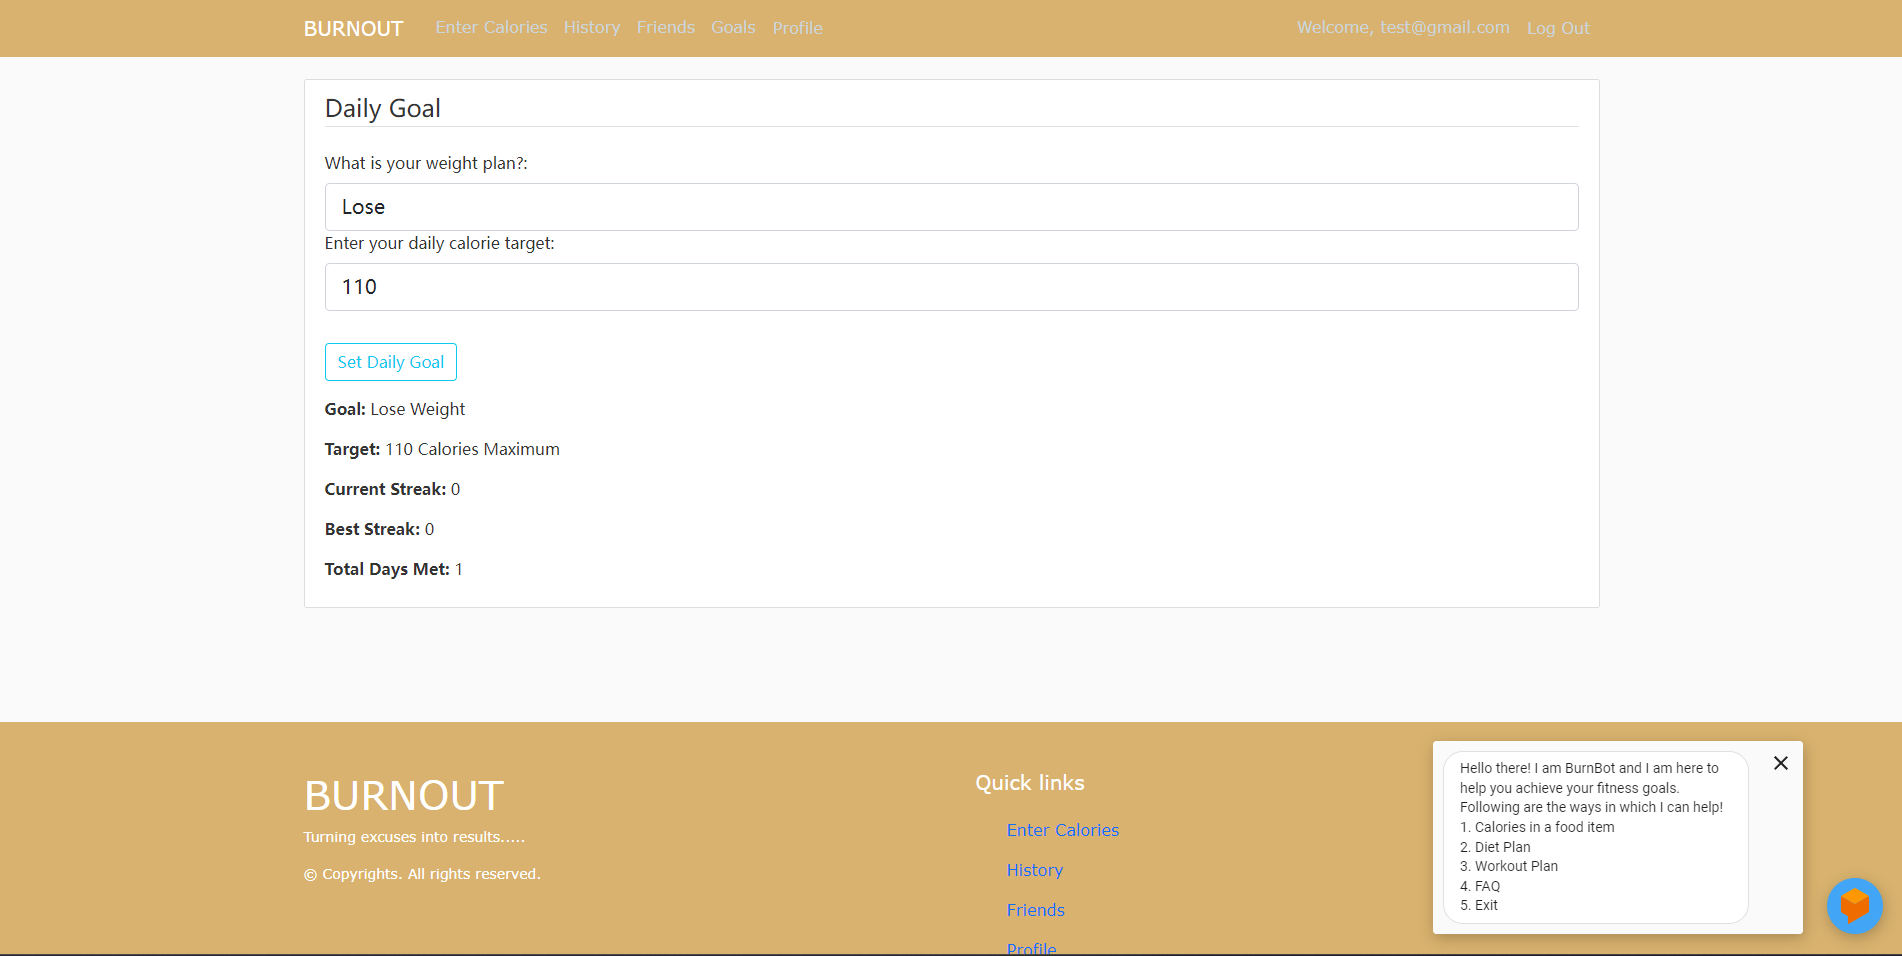
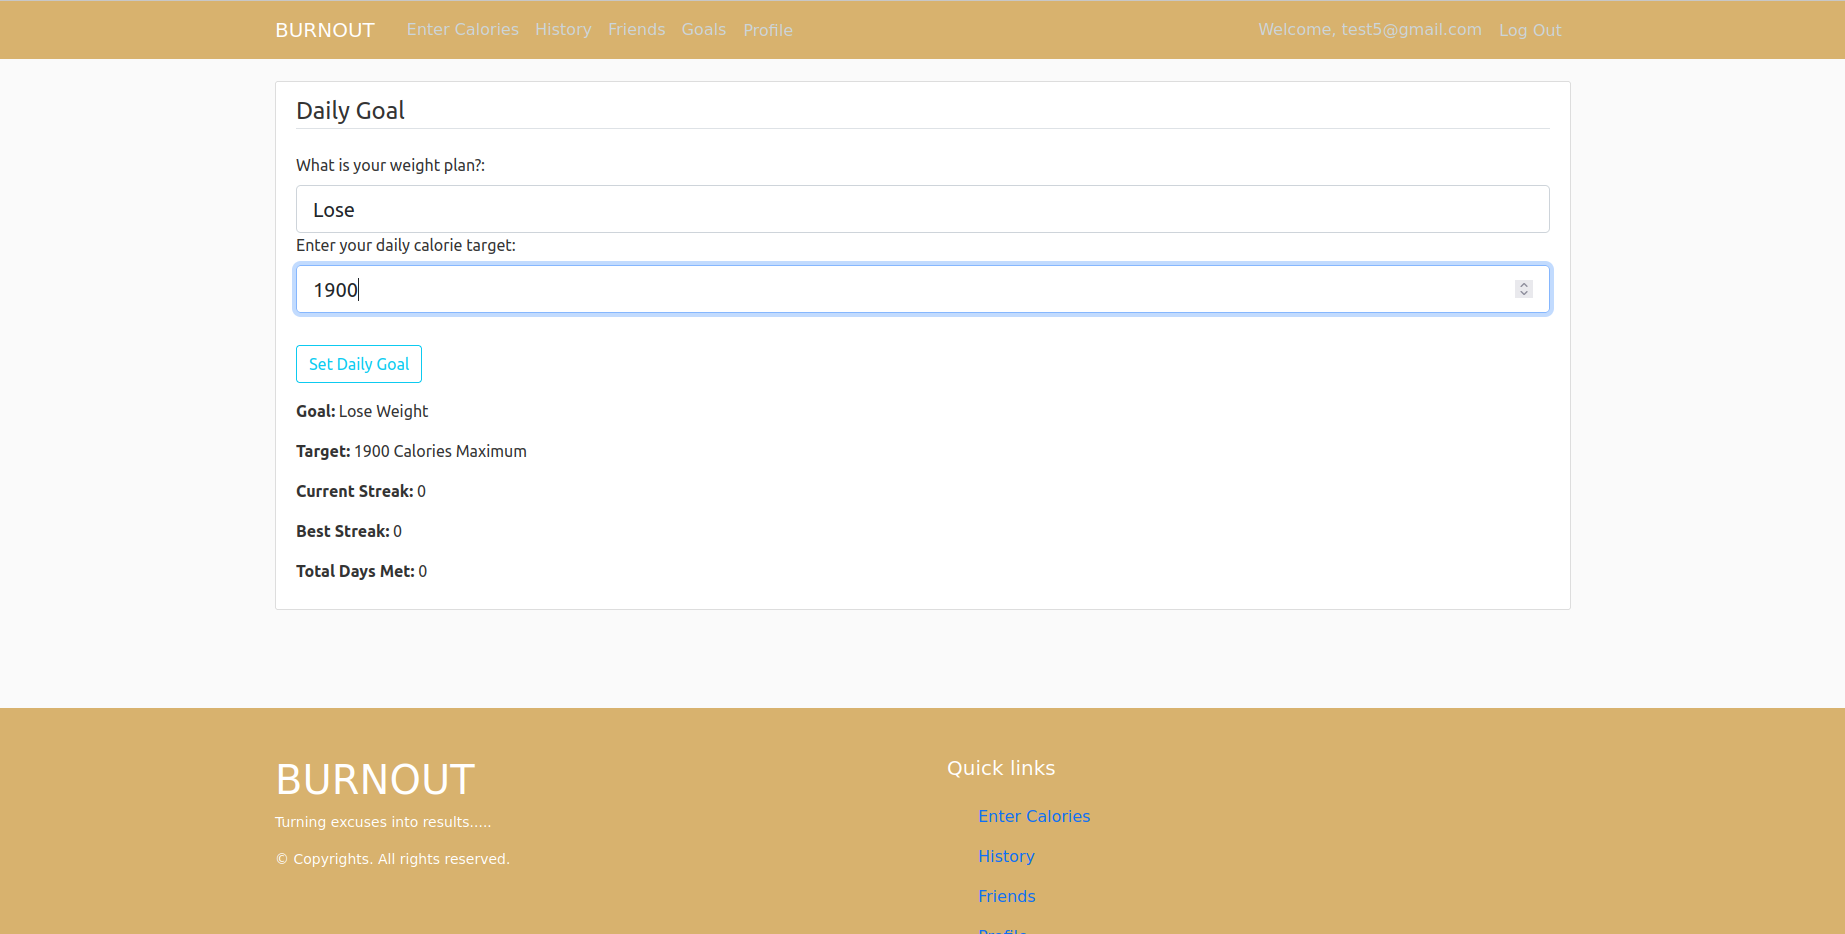
added to read me, tried to debug code_cov issue

diff --git a/src/templates/layout.html b/src/templates/layout.html
@@ -135,12 +135,7 @@
     <!-- Optional JavaScript -->
     <!-- jQuery first, then Popper.js, then Bootstrap JS -->
     <script src="https://www.gstatic.com/dialogflow-console/fast/messenger/bootstrap.js?v=1"></script>
-    <df-messenger
-    intent="WELCOME"
-    chat-title="BurnBot"
-    agent-id="49437a24-4e37-4774-a720-95be1ffa0142"
-    language-code="en"
-    ></df-messenger>
+
     <script src="https://ajax.googleapis.com/ajax/libs/jquery/3.5.1/jquery.min.js"></script>
     <script src="https://cdnjs.cloudflare.com/ajax/libs/popper.js/1.12.9/umd/popper.min.js" integrity="sha384-ApNbgh9B+Y1QKtv3Rn7W3mgPxhU9K/ScQsAP7hUibX39j7fakFPskvXusvfa0b4Q" crossorigin="anonymous"></script>
     <script src="https://maxcdn.bootstrapcdn.com/bootstrap/4.0.0/js/bootstrap.min.js" integrity="sha384-JZR6Spejh4U02d8jOt6vLEHfe/JQGiRRSQQxSfFWpi1MquVdAyjUar5+76PVCmYl" crossorigin="anonymous"></script>

diff --git a/src/forms.py b/src/forms.py
@@ -8,7 +8,7 @@ from wtforms import (
 )
 from wtforms import DateField, SelectField
 from wtforms.validators import DataRequired, Length, Email, EqualTo, ValidationError
-from src.apps import App
+from apps import App
 
 
 class RegistrationForm(FlaskForm):

diff --git a/src/application.py b/src/application.py
@@ -18,7 +18,7 @@ from flask import (
 from flask_mail import Mail
 from flask_pymongo import PyMongo
 from tabulate import tabulate
-from src.forms import (
+from forms import (
     FoodForm,
     HistoryForm,
     RegistrationForm,

diff --git a/tests/test_application.py b/tests/test_application.py
@@ -1,6 +1,6 @@
 import pytest
 from flask import session, url_for
-from src.application import app, mongo
+from application import app, mongo
 
 
 # utility functions

diff --git a/README.md b/README.md
@@ -1,6 +1,4 @@
-# Link to demo/walkthrough video:
-https://drive.google.com/drive/folders/1M5vdCwH11C-MqK8X-Dkf5bPR0SaWA5Yc?usp=sharing
-<br>
+
 
 
 [![GitHub license](https://img.shields.io/github/license/1360119047/calorieApp_server)](https://github.com/1360119047/calorieApp_server/blob/main/LICENSE)
@@ -57,20 +55,20 @@ BurnOut is your ultimate fitness companion, designed to make tracking your daily
 
 - **Personalized Profiles**: Create your unique profile by entering your height, weight, fitness goals, and target weight. BurnOut tailors your fitness journey just for you.
 
-- **Goal Setting**: Set your fitness goals with ease. Whether it's weight loss or muscle gain, BurnOut provides the roadmap to get you there.
+- **Calorie Tracking**: Calorie mindfulness is the best way to achieve your goals. BurnOut provides a comprehensive calorie logbook as the best tool for a healthier lifestyle.
 
-- **Fitness Programs**: Join exciting fitness programs, including yoga classes and energizing workout sessions. BurnOut helps you stay motivated and engaged.
+- **Goal Setting**: Set your health and wellness goals with ease. Whether it's weight loss or muscle gain, BurnOut provides the roadmap to get you there.
 
 - **Connect with Friends**: Stay accountable by connecting with friends, sending friend requests, and sharing your fitness progress. Together, you can achieve your goals.
 
 and more:
 
- - User can keep a track of their calorie intake.
- - User just needs to input the food they've had, calories get calculated automatically.
+ - User can keep a track of their calorie intake and output.
+ - User just needs to input the food they've eaten or an activity they've done,and  calories get calculated automatically.
  - Displays a record of calories in and calories burnt out day wise in History tab.
  - Helps user to figure out how much to eat/exercise according to their desired goal(weight loss/gain).
  - Users can connect with their friends and keep track of each other's progress
- - Enrollment into numerous yoga and workout sessions.
+ - Enrollment into a variety of workout programs.
  - Accessible to everyone and easy to use.
 
 
@@ -95,9 +93,9 @@ and more:
 - [License](#license)
 
 
-# Demo
+# Demo Video
 
-Link to the implementation video of the BurnOut application:
+[Demo video showcasing the most recent updates and features of Burnout](https://drive.google.com/drive/folders/1M5vdCwH11C-MqK8X-Dkf5bPR0SaWA5Yc?usp=sharing)
 
 # Tech Stack
 
@@ -188,12 +186,11 @@ Note that coverage HTML is written to directory htmlcov in the same location the
 <img src=https://github.com/deekay2310/calorieApp_server/blob/main/static/img/Screen%20Shot%202021-12-04%20at%206.35.05%20PM.png>
 
 ### Enter Calories burnt and consumed
+- Data sources:
+  - [Foods](https://www.kaggle.com/datasets/trolukovich/nutritional-values-for-common-foods-and-products/data)
+  - [Activities](https://www.kaggle.com/datasets/aadhavvignesh/calories-burned-during-exercise-and-activities)
 
 <img src=https://github.com/1360119047/calorieApp_server/blob/main/src/static/img/new_calories.png>
-
-### Chatbot
-
-<img src=https://github.com/deekay2310/calorieApp_server/blob/main/static/img/Screen%20Shot%202021-12-04%20at%206.31.54%20PM.png>
 
 ### Check History
 
@@ -202,10 +199,6 @@ Note that coverage HTML is written to directory htmlcov in the same location the
 ### Daily Goal
 
 <img src=https://github.com/1360119047/calorieApp_server/blob/main/src/static/img/goal.png>
-
-### Add weight alert
- 
-<img src=https://github.com/deekay2310/calorieApp_server/blob/main/static/img/Screen%20Shot%202021-12-04%20at%206.30.48%20PM.png>
 
 ### Adding Friends
 
@@ -216,12 +209,15 @@ Note that coverage HTML is written to directory htmlcov in the same location the
 <img src=https://github.com/deekay2310/calorieApp_server/blob/main/static/img/Screen%20Shot%202021-12-04%20at%206.32.08%20PM.png>
 
   
-# Future scope
+# Roadmap and Future Ideas
 
-1. Make the website responsive -- the website should look good on phone, tablet and computer.
-2. Chatbot to guide through the application.
-3. Share workout plans with friends via email.
-4. Integrate machine learning to suggest friend or food recommendations
+1. Remake frontend with a standard javascript framework for a sleeker, more modern look.
+2. Improve user profile with more information and customizable options. Make profiles viewable to friends and other users.
+3. Provide user stats and trends for diet and activity.
+4. Improve the food and activity selection forms with a more efficient search tool for a better experience.
+5. Make goals more customizable. Add profile badges and other rewards for hitting goals.
+6. Add functionality to workout enrollment feature. Incorporate workout planner and other progress metrics.
+7. Implement a recommendation system for foods, activities, calorie goals, etc.
    
 # Team Members
 <center>
